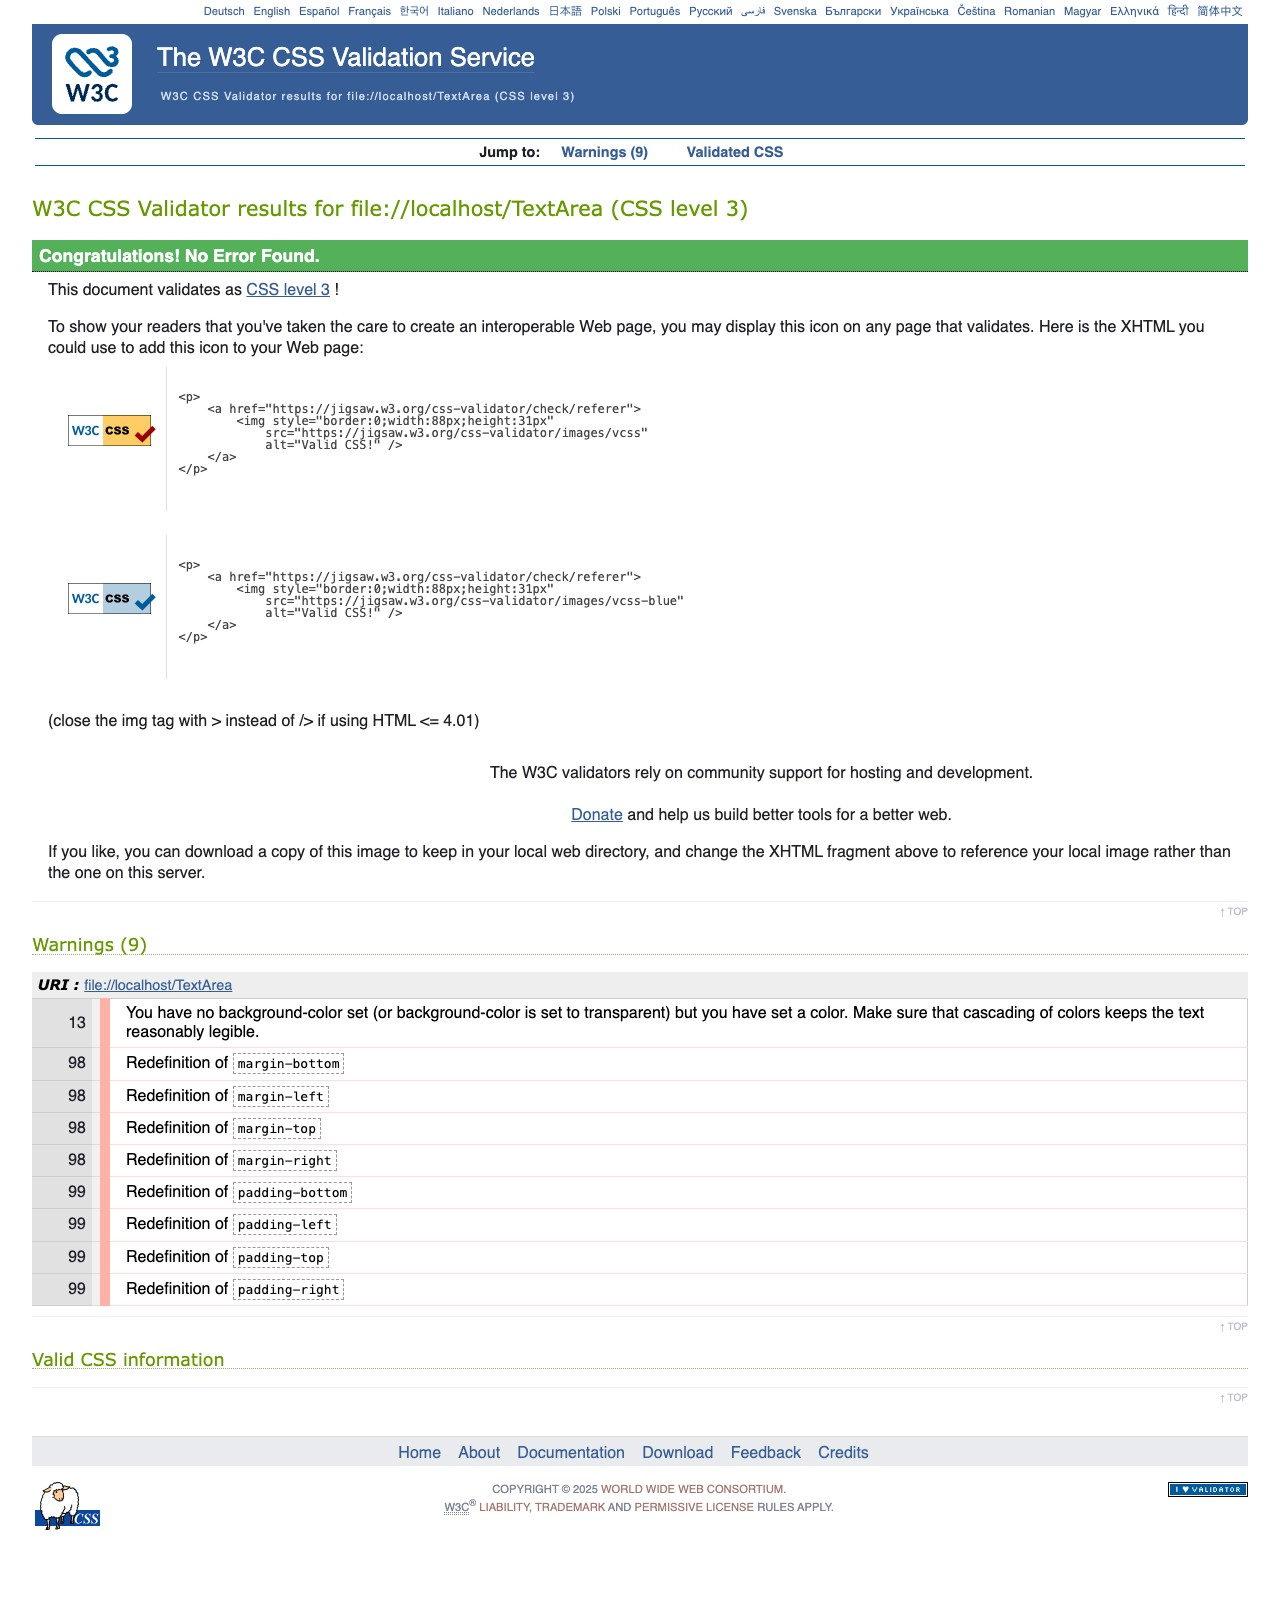
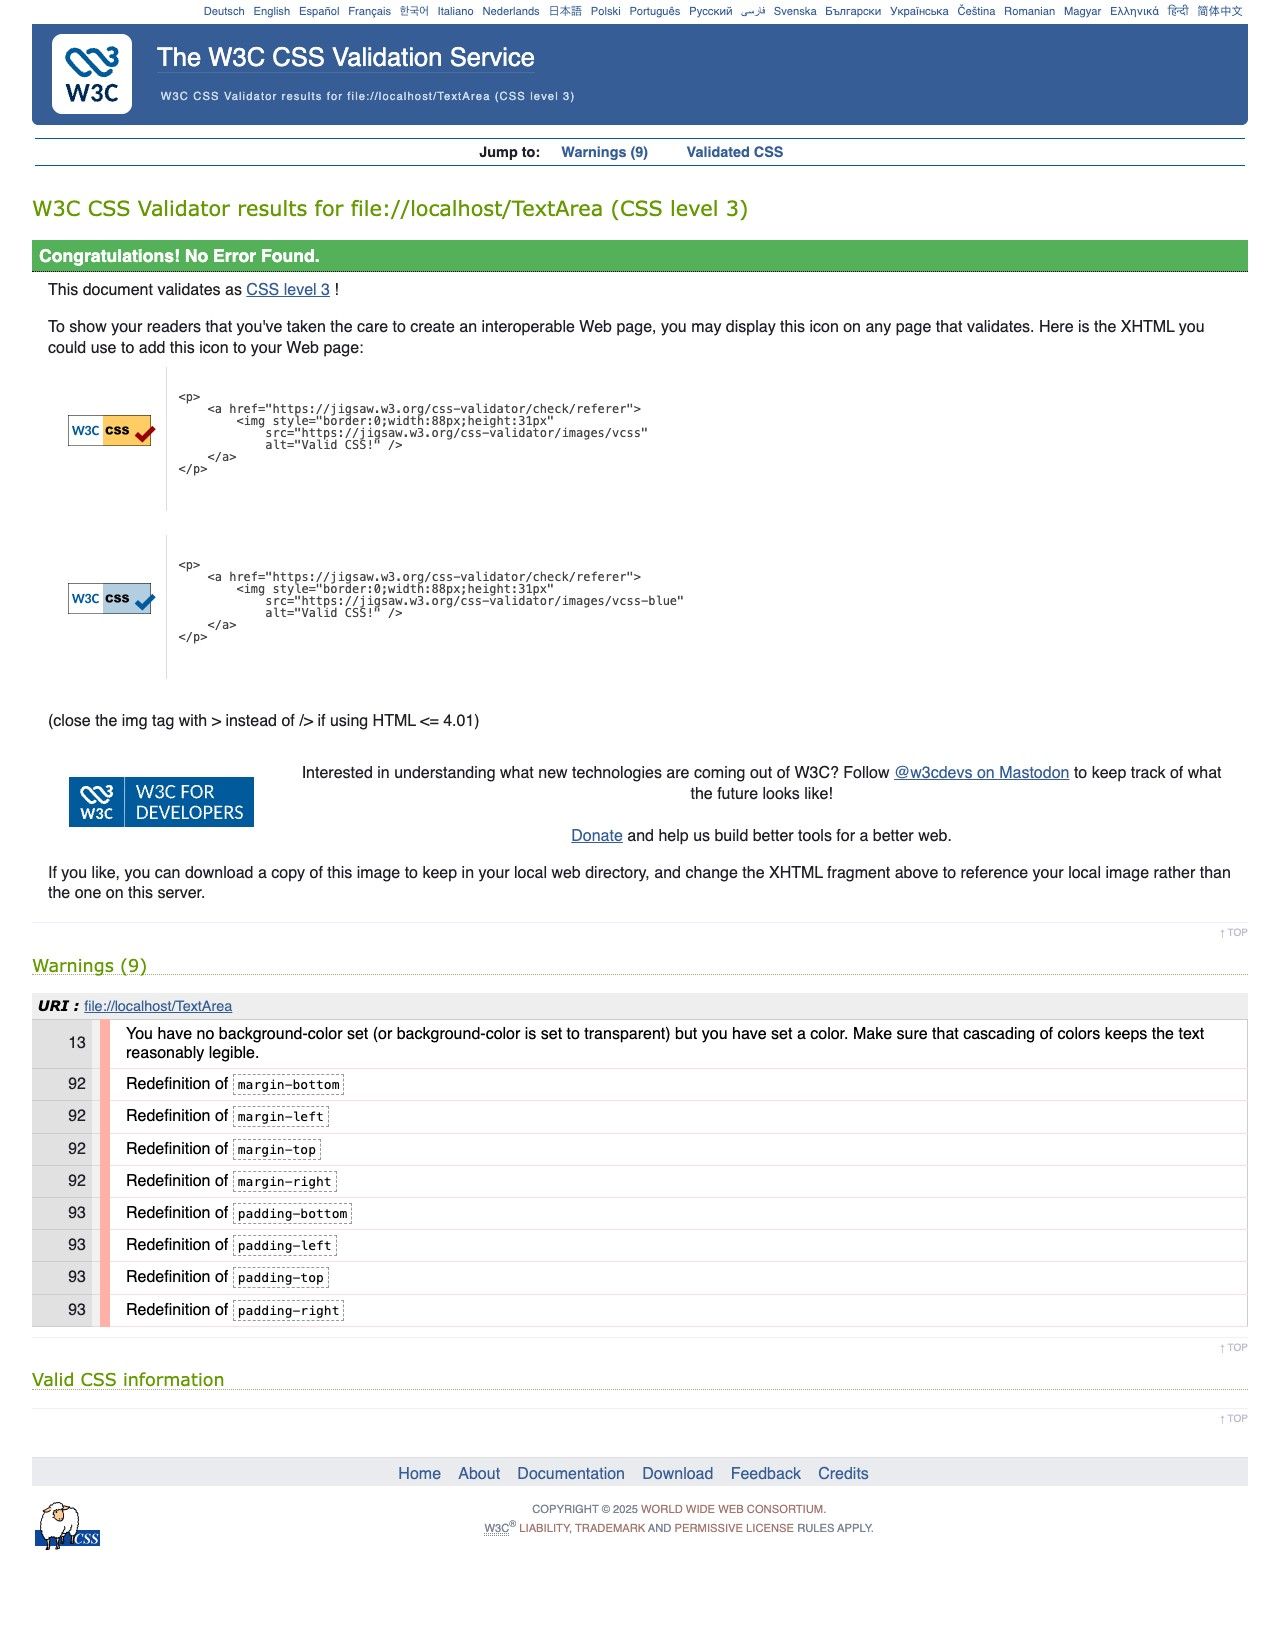
Remove visible skip and back-to-main links

diff --git a/index.html b/index.html
@@ -10,8 +10,6 @@
   <link rel="stylesheet" href="style.css">
 </head>
 <body>
-  <a href="#main">Skip to main content</a>
-
   <header>
     <a class="name" href="#main">Remiel Shirazi</a>
     <nav aria-label="Main navigation">
@@ -95,8 +93,5 @@
     </section>
   </main>
 
-  <footer>
-    <a href="#main">Back to main content</a>
-  </footer>
 </body>
 </html>

diff --git a/style.css b/style.css
@@ -86,12 +86,6 @@ section h3 {
   height: auto;
 }
 
-footer {
-  margin-top: 30px;
-  padding-top: 20px;
-  border-top: 1px solid black;
-}
-
 /* Keep some space beside the text on small screens. */
 @media (max-width: 600px) {
   body {
